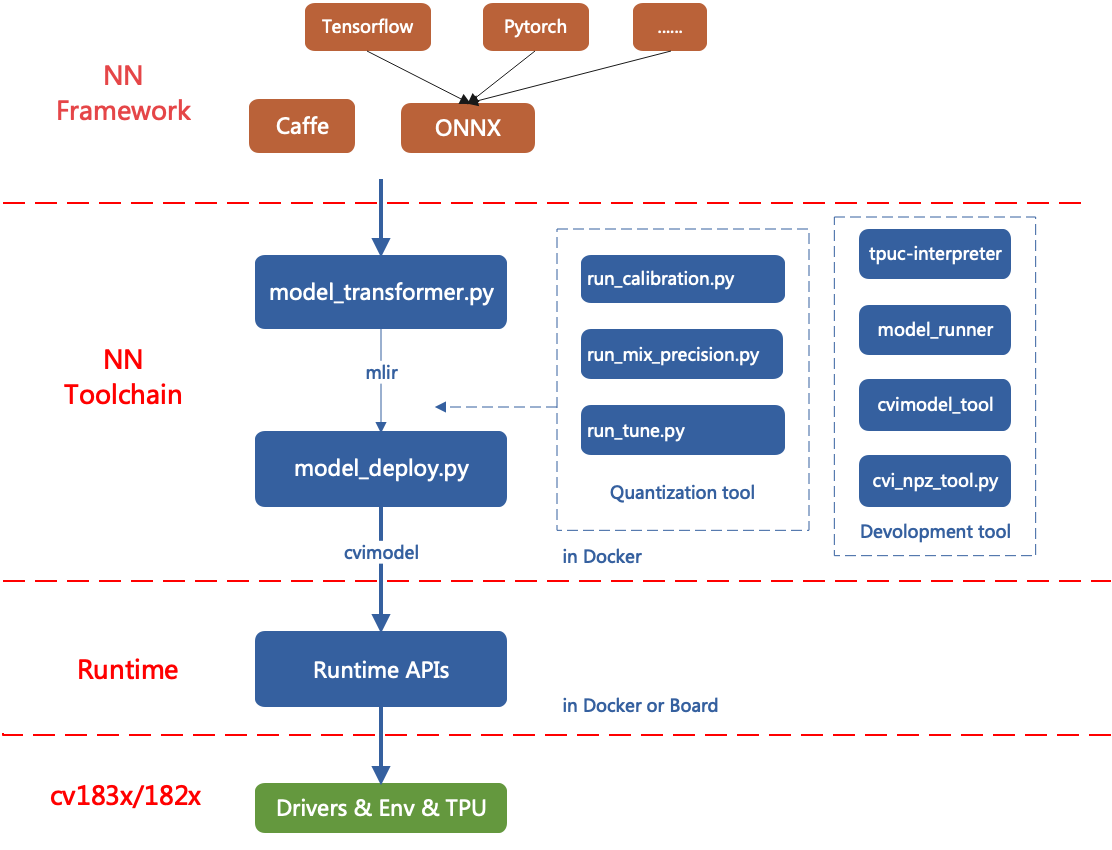
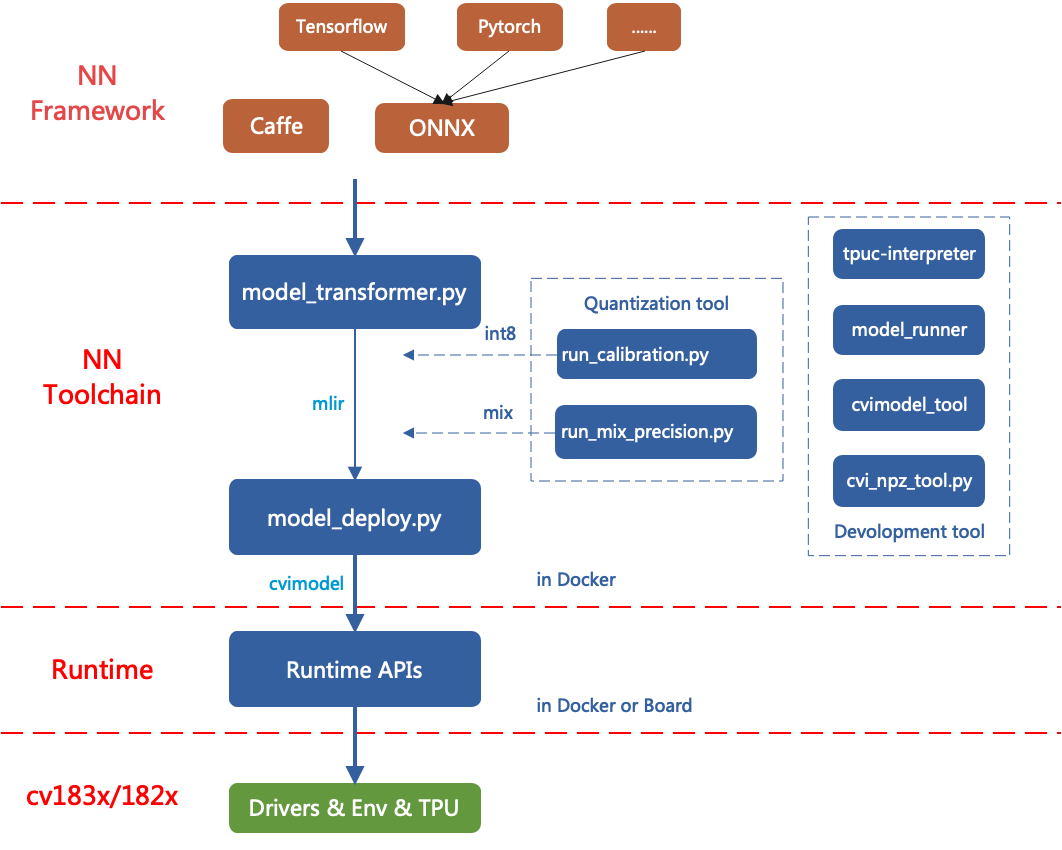
update doc

diff --git a/python/cvi_toolkit/tool/model_deploy.py b/python/cvi_toolkit/tool/model_deploy.py
@@ -2,10 +2,7 @@
 import os
 import sys
 import argparse
-import glob
 import time
-import skimage
-import caffe
 import numpy as np
 from cvi_toolkit.utils.version import declare_toolchain_version
 from cvi_toolkit.utils.log_setting import setup_logger
@@ -184,7 +181,7 @@ if __name__ == '__main__':
     parser.add_argument("--calibration_table", help="calibration table for int8 quantization")
     parser.add_argument("--mix_precision_table", help="table of OPs that quantized to specific mode")
     parser.add_argument("--quantize", default='', help="set qauntization type: BF16/INT8/MIX_BF16")
-    parser.add_argument("--tolerance", required=True, help="tolerance")
+    parser.add_argument("--tolerance", default='0.8,0.8,0.3', help="tolerance")
     parser.add_argument("--excepts", default='-', help="excepts")
     parser.add_argument("--correctness", default='0.99,0.99,0.98', help="correctness")
     parser.add_argument("--chip", required=True, choices=['cv183x', 'cv182x', 'mars'], help="chip platform name")
@@ -194,10 +191,10 @@ if __name__ == '__main__':
                         help="pixel format of input frame to the model")
     parser.add_argument("--aligned_input", type=str2bool, default=False,
                         help='if the input frame is width/channel aligned')
-    parser.add_argument("--inputs_type", default="AUTO",
-                        help="set inputs type:AUTO/FP32/INT8/BF16/SAME; if AUTO, use INT8 if input layer is INT8, use FP32 if BF16")
-    parser.add_argument("--outputs_type", default="FP32",
-                        help="set outputs type:AUTO/FP32/INT8/BF16/SAME; if AUTO, use INT8 if output layer is INT8, use FP32 if BF16")
+    parser.add_argument("--inputs_type", default="AUTO", choices=['AUTO', 'FP32', 'INT8', 'SAME'],
+                        help="set inputs type. if AUTO, use INT8 if input layer is INT8, use FP32 if BF16")
+    parser.add_argument("--outputs_type", default="FP32", choices=['AUTO', 'FP32', 'INT8', 'SAME'],
+                        help="set outputs type. if AUTO, use INT8 if output layer is INT8, use FP32 if BF16")
     parser.add_argument("--merge_weight", action='store_true',
                         help="merge weights into one weight binary wight previous generated cvimodel")
     parser.add_argument("--tg_op_divide", type=str2bool, default=False,

diff --git a/doc/cvitek_tpu_quick_start_guide.md b/doc/cvitek_tpu_quick_start_guide.md
@@ -5,9 +5,9 @@
 
 
 
->文档版本: 1.5.5
+>文档版本: 1.5.6
 >
->发布日期: 2022-01-01
+>发布日期: 2022-01-17
 
 
 
@@ -643,6 +643,8 @@ TPU支持INT8和BF16两种量化方法。在模型编译阶段，工具链支持
 
 本章以`mobilenet_v1_0.25`为例，介绍如何对这个模型采用自动搜索和混合精度的方式提高模型精度。
 
+此处如何测试精度省略，可以参考各种网络的官网eval脚本，也可以参考`cvitek_mlir`中的`eval_classifier.py`脚本。
+
 本章需要如下文件：
 
 * cvitek_mlir_ubuntu-18.04.tar.gz
@@ -673,23 +675,15 @@ python3 -m tf2onnx.convert --graphdef mobilenet_v1_0.25_224_frozen.pb \
 
 ``` python
 import onnx
-
 model = onnx.load('mnet_25.onnx')
-
 print(model.graph.input[0].type.tensor_type.shape.dim)
-
 model.graph.input[0].type.tensor_type.shape.dim[1].dim_value = 3
 model.graph.input[0].type.tensor_type.shape.dim[2].dim_value = 224
 model.graph.input[0].type.tensor_type.shape.dim[3].dim_value = 224
-
 print(model.graph.input[0].type.tensor_type.shape.dim)
-
 input_name = model.graph.input[0].name
-
 del model.graph.node[0]
-
 model.graph.node[0].input[0] = input_name
-
 onnx.save(model, 'mnet_25_new.onnx')
 ```
 
@@ -739,36 +733,7 @@ model_transform.py \
 
 得到`mnet_25_fp32.mlir`文件。
 
-###### 测试FP32模型精度（可选）
-
-数据集来自ILSVRC2012，下载地址： <https://github.com/cvitek-mlir/dataset>
-使用pymlir python接口测试精度：
-
-``` shell
-# FP32
-eval_classifier.py \
-    --mlir_file=mnet_25_fp32.mlir \
-    --dataset=$DATASET_PATH/imagenet/img_val_extracted \
-    --label_file=$REGRESSION_PATH/data/synset_words.txt \
-    --image_resize_dims 256,256 \
-    --net_input_dims 224,224 \
-    --raw_scale 255.0 \
-    --mean 127.5,127.5,127.5 \
-    --std 127.5,127.5,127.5 \
-    --data_format "nchw" \
-    --model_channel_order "rgb" \
-    --model_type mlir \
-    --count=50000
-
-# ......
-# Test: [49900/50000]     Time  0.042 ( 0.056)    Loss 5.9356e+00 (6.5670e+00)    Acc@1 100.00 ( 49.15)       Acc@5 100.00 ( 73.46)
-# Test: [49950/50000]     Time  0.041 ( 0.056)    Loss 6.8937e+00 (6.5669e+00)    Acc@1   0.00 ( 49.16)       Acc@5   0.00 ( 73.47)
-# Test: [50000/50000]     Time  0.043 ( 0.056)    Loss 6.8896e+00 (6.5669e+00)    Acc@1   0.00 ( 49.16)       Acc@5   0.00 ( 73.47)
-# * Acc@1 49.164 Acc@5 73.468
-# tensor(49.1640)
-```
-
-测试得到FP32模型精度为Top-1 49.2% Top-5 73.5%。
+使用ILSVRC2012数据集验证精度，测试得到FP32模型精度为Top-1 49.2% Top-5 73.5%。
 
 #### 步骤 2：进行INT8量化
 
@@ -798,34 +763,7 @@ model_deploy.py \
   --cvimodel mnet_25.cvimodel
 ```
 
-###### 测试INT8模型精度（可选)
-
-上一步会产生量化mlir模型文件mnet_25_quantized.mlir, 可以使用pymlir python接口进行测试精度：
-
-``` shell
-# INT8
-eval_classifier.py \
-    --mlir_file=mnet_25_quantized.mlir \
-    --dataset=$DATASET_PATH/imagenet/img_val_extracted \
-    --label_file=$REGRESSION_PATH/data/synset_words.txt \
-    --image_resize_dims 256,256 \
-    --net_input_dims 224,224 \
-    --raw_scale 255.0 \
-    --mean 127.5,127.5,127.5 \
-    --std 127.5,127.5,127.5 \
-    --data_format "nchw" \
-    --model_channel_order "rgb" \
-    --model_type mlir \
-    --count=50000
-
-# ......
-# Test: [49900/50000]     Time  0.088 ( 0.078)    Loss 5.9236e+00 (6.6264e+00)    Acc@1 100.00 ( 43.19)   Acc@5 100.00 ( 68.34)
-# Test: [49950/50000]     Time  0.041 ( 0.078)    Loss 6.9057e+00 (6.6264e+00)    Acc@1   0.00 ( 43.18)   Acc@5   0.00 ( 68.33)
-# Test: [50000/50000]     Time  0.081 ( 0.078)    Loss 6.9052e+00 (6.6264e+00)    Acc@1   0.00 ( 43.18)   Acc@5   0.00 ( 68.32)
-# * Acc@1 43.176 Acc@5 68.318
-```
-
-测试得到INT8模型精度为Top-1 43.2% Top-5 68.3%，比FP32模型精度（Top-1 49.2% Top-5 73.5%）有一定幅度下降。
+测试得到INT8模型精度为Top-1 43.2% Top-5 68.3%，比FP32模型精度有一定幅度下降。
 
 #### 步骤 3：进行BF16量化
 
@@ -841,29 +779,7 @@ model_deploy.py \
   --cvimodel mnet_25_all_bf16_precision.cvimodel
 ```
 
-###### 测试BF16模型精度 （可选)
-
-上一步会产生量化mlir模型文件mnet_25_quantized.mlir, 可以使用pymlir python接口进行测试精度
-
-``` shell
-eval_classifier.py \
-    --mlir_file=mnet_25_quantized.mlir \
-    --dataset=$DATASET_PATH/imagenet/img_val_extracted \
-    --label_file=$REGRESSION_PATH/data/synset_words.txt \
-    --image_resize_dims 256,256 \
-    --net_input_dims 224,224 \
-    --raw_scale 255.0 \
-    --mean 127.5,127.5,127.5 \
-    --std 127.5,127.5,127.5 \
-    --data_format "nchw" \
-    --model_channel_order "rgb" \
-    --model_type mlir \
-    --count=50000
-
-# Test: [49950/50000]     Time  0.031 ( 0.036)    Loss 6.4377e+00 (6.5711e+00)    Acc@1 100.00 ( 48.49)   Acc@5 100.00 ( 73.06)
-# Test: [50000/50000]     Time  0.033 ( 0.036)    Loss 6.8726e+00 (6.5711e+00)    Acc@1   0.00 ( 48.50)   Acc@5 100.00 ( 73.06)
-# * Acc@1 48.498 Acc@5 73.064
-```
+测试BF16模型精度为Top-1 48.49 Top-5 73.064。
 
 
 
@@ -911,52 +827,9 @@ model_deploy.py \
   --cvimodel mnet_25_mix_precision.cvimodel
 ```
 
-###### 测试混合量化模型精度 (可选)
+测试混合量化模型精度为Top-1 47.4% Top-5 72.3%。
 
-上一步会产生量化mlir模型文件mnet_25_quantized.mlir, 可以使用pymlir python接口进行测试精度：
-
-``` shell
-# MIXED, 6 layers
-eval_classifier.py \
-    --mlir_file=mnet_25_quantized.mlir \
-    --dataset=$DATASET_PATH/imagenet/img_val_extracted \
-    --label_file=$REGRESSION_PATH/data/synset_words.txt \
-    --image_resize_dims 256,256 \
-    --net_input_dims 224,224 \
-    --raw_scale 255.0 \
-    --mean 127.5,127.5,127.5 \
-    --std 127.5,127.5,127.5 \
-    --data_format "nchw" \
-    --model_channel_order "rgb" \
-    --model_type mlir \
-    --count=50000
-# Test: [49900/50000]     Time  0.052 ( 0.064)    Loss 6.8954e+00 (6.5889e+00)    Acc@1   0.00 ( 47.40)   Acc@5   0.00 ( 72.28)
-# Test: [49950/50000]     Time  0.044 ( 0.064)    Loss 6.2587e+00 (6.5890e+00)    Acc@1 100.00 ( 47.39)   Acc@5 100.00 ( 72.29)
-# Test: [50000/50000]     Time  0.053 ( 0.064)    Loss 5.9630e+00 (6.5890e+00)    Acc@1 100.00 ( 47.40)   Acc@5 100.00 ( 72.29)
-#  * Acc@1 47.400 Acc@5 72.292
-```
-
-测试得到混合量化T8模型精度为Top-1 47.4% Top-5 72.3%。
-
-为比较效果，我们调整number_bf16参数分别为10和15，重复上面测试（具体命令略），结果分别为。
-
-``` shell
-# MIXED, 10 layers
-
-# Test: [49950/50000]     Time  0.041 ( 0.044)    Loss 6.8057e+00 (6.5866e+00)    Acc@1   0.00 ( 47.64)   Acc@5 100.00 ( 72.28)
-# Test: [50000/50000]     Time  0.040 ( 0.044)    Loss 6.2855e+00 (6.5865e+00)    Acc@1 100.00 ( 47.65)   Acc@5 100.00 ( 72.29)
-#  * Acc@1 47.648 Acc@5 72.294
-
-# MIXED, 15 layers
-
-# Test: [49950/50000]     Time  0.049 ( 0.044)    Loss 5.9641e+00 (6.5852e+00)    Acc@1 100.00 ( 47.78)   Acc@5 100.00 ( 72.51)
-# Test: [50000/50000]     Time  0.043 ( 0.044)    Loss 6.3955e+00 (6.5852e+00)    Acc@1 100.00 ( 47.78)   Acc@5 100.00 ( 72.52)
-#  * Acc@1 47.782 Acc@5 72.518
-```
-
-###### 各种量化精度测试对比 (可选)
-
-比较6种量化方式的结果（混合量化包含6层，10层和15层三个版本）：
+为比较效果，我们调整number_bf16参数分别为10和15，测试混和量化精度。最终结果如下：
 
 | **Quant Type**    | **Top-1** | **Top-5** |
 | ----------------- | --------- | --------- |

diff --git a/examples/matchTemplate/Readme.md b/examples/matchTemplate/Readme.md
@@ -7,7 +7,7 @@
 #### 实现方法
 
 通过match_template算子实现，尤其第一步先把输入展开，用FC实现或者广播乘法实现卷积的功能
-（不直接用卷积是因为kernel太大）
+（不直接用卷积是因为kernel太大，且oc=ic=1，效率低下）
 
 #### 进展
 
